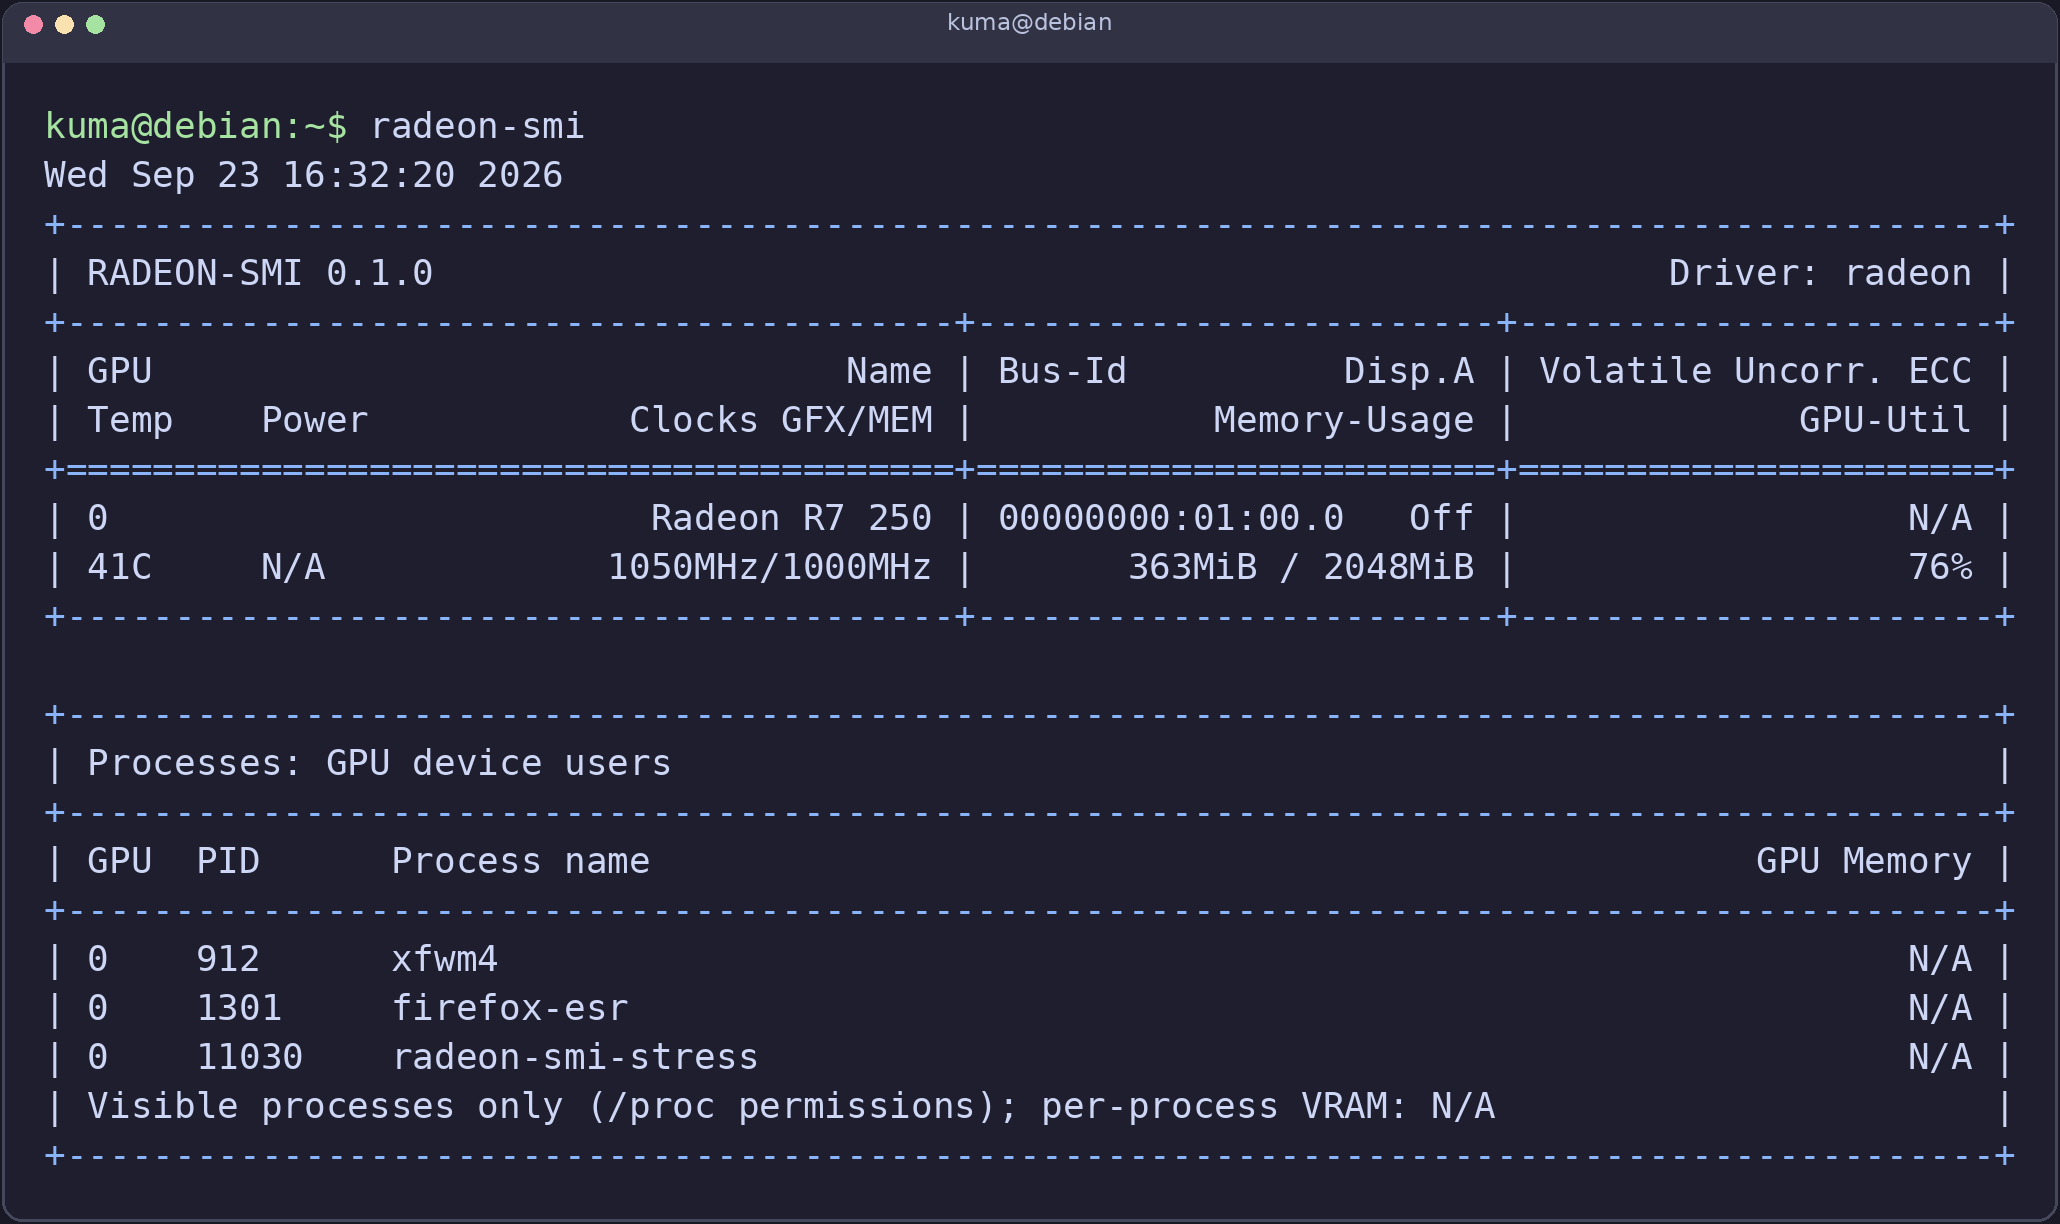
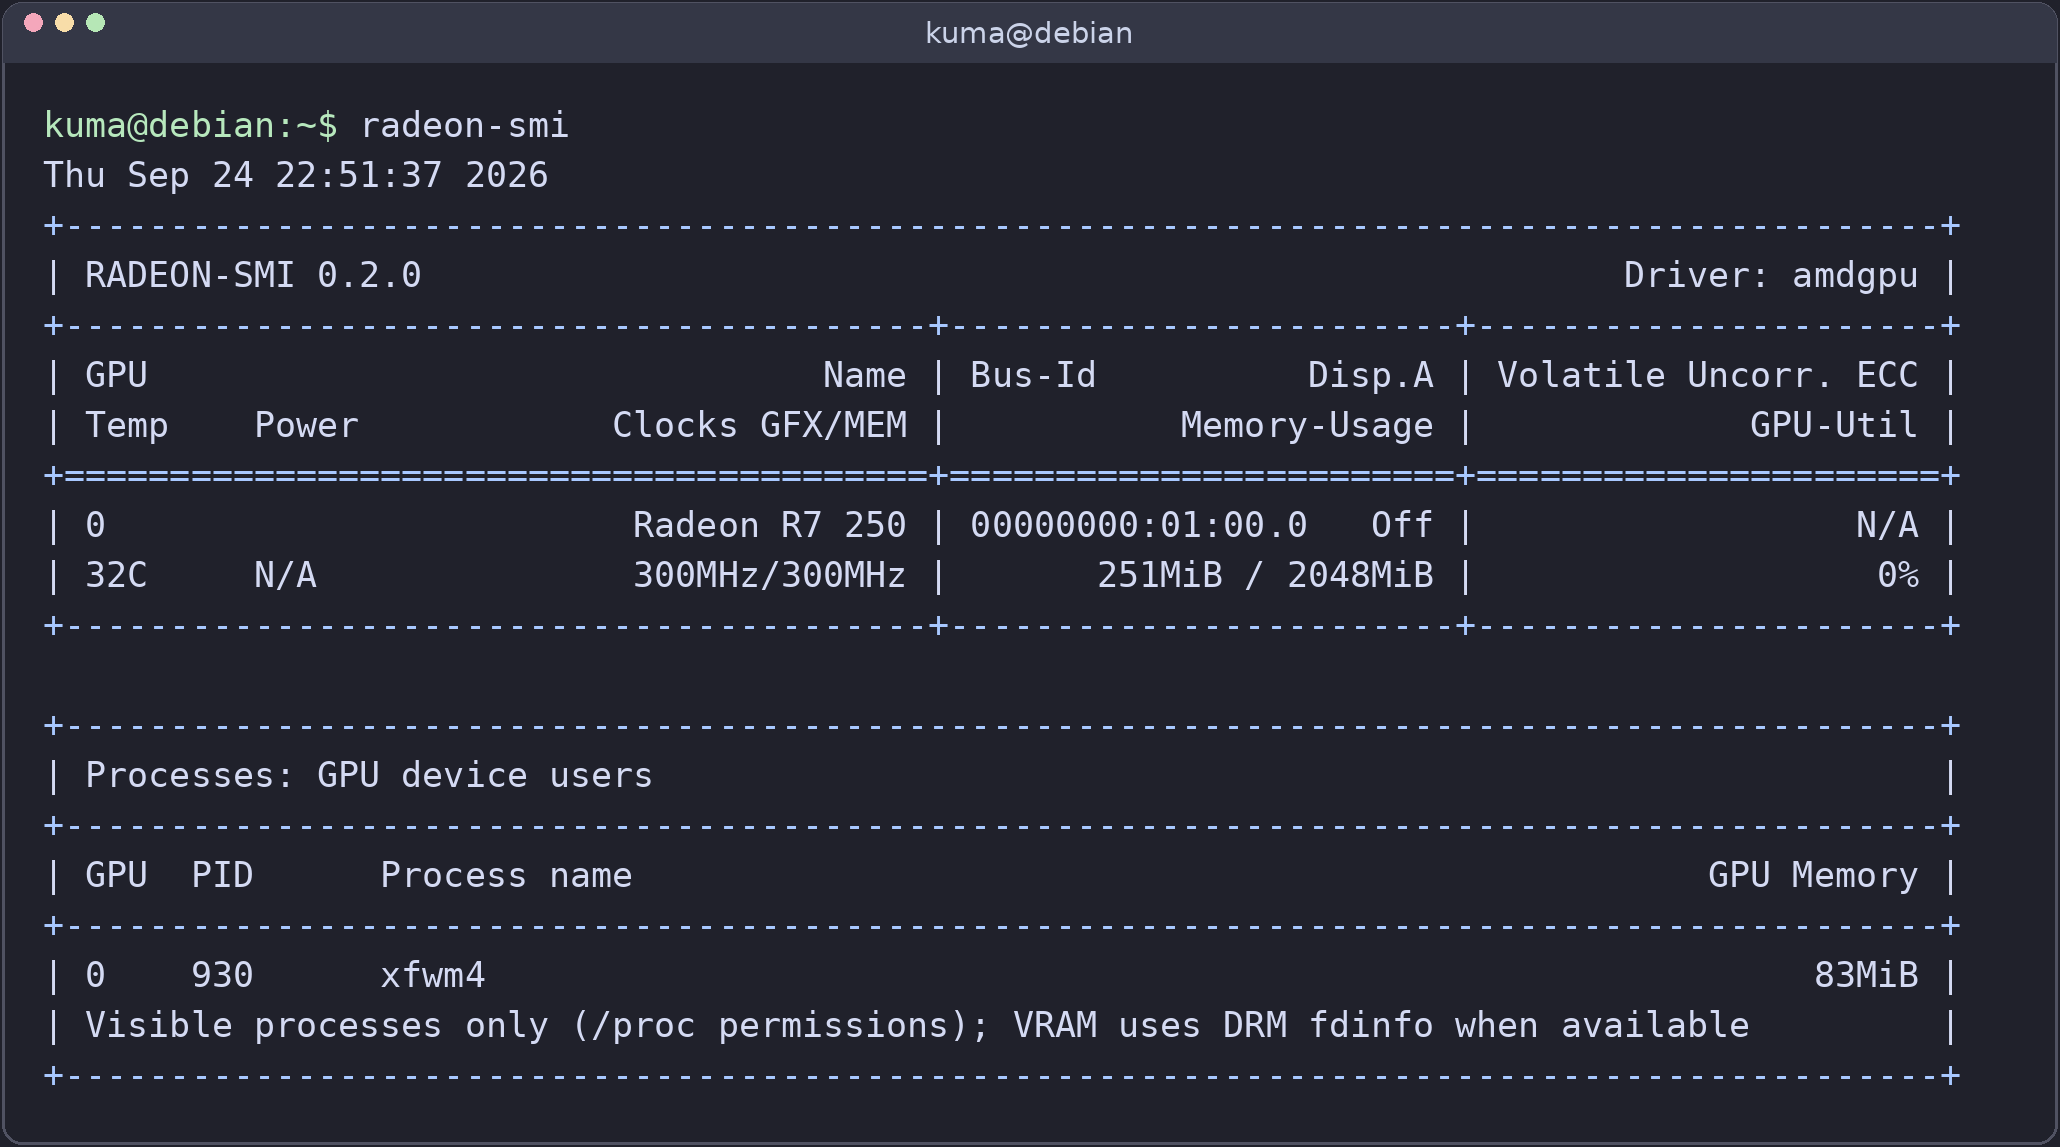
Refresh README preview for amdgpu telemetry

diff --git a/README.md b/README.md
@@ -2,7 +2,7 @@
 
 **SMI-style monitoring for legacy AMD Radeon GPUs.**
 
-![radeon-smi monitoring a Radeon R7 250 under OpenGL load](docs/preview.png)
+![radeon-smi showing an amdgpu driven Radeon R7 250 and per-process VRAM usage](docs/preview.png)
 
 `radeon-smi` is a small, read-only Linux command-line tool for older Radeon GPUs
 using the open-source `radeon` or `amdgpu` kernel driver. It presents a familiar GPU summary and
